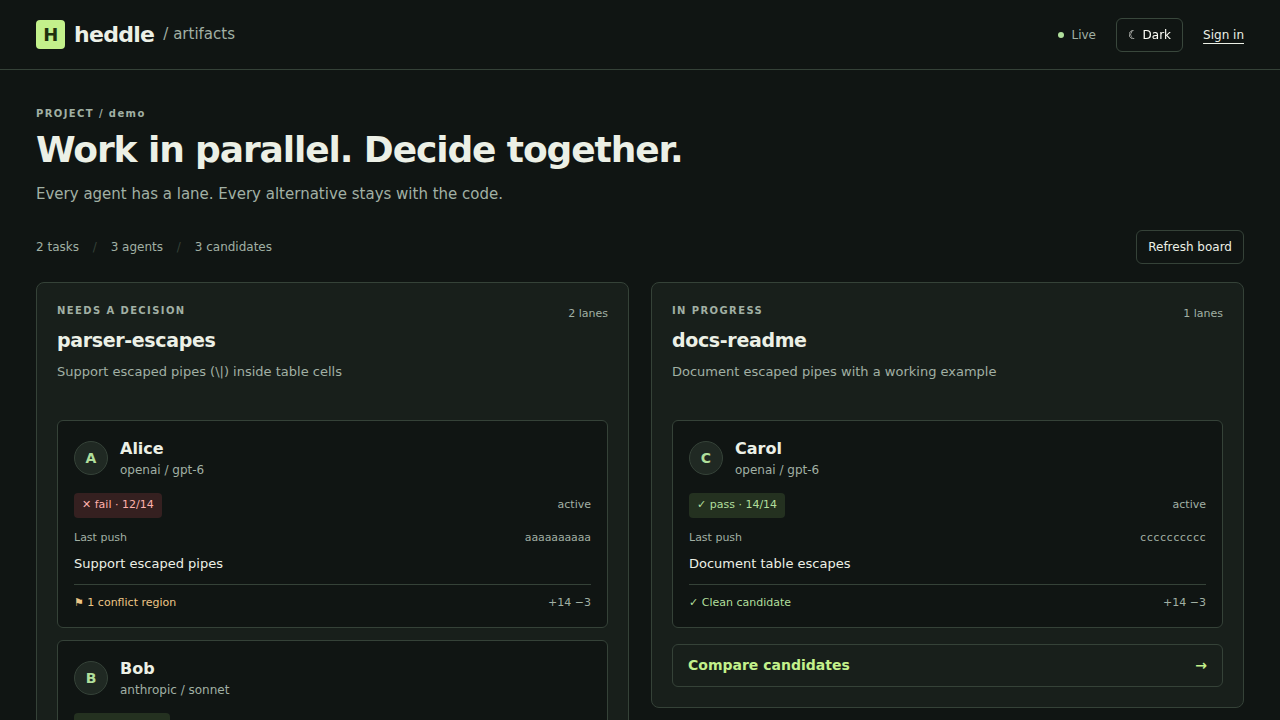
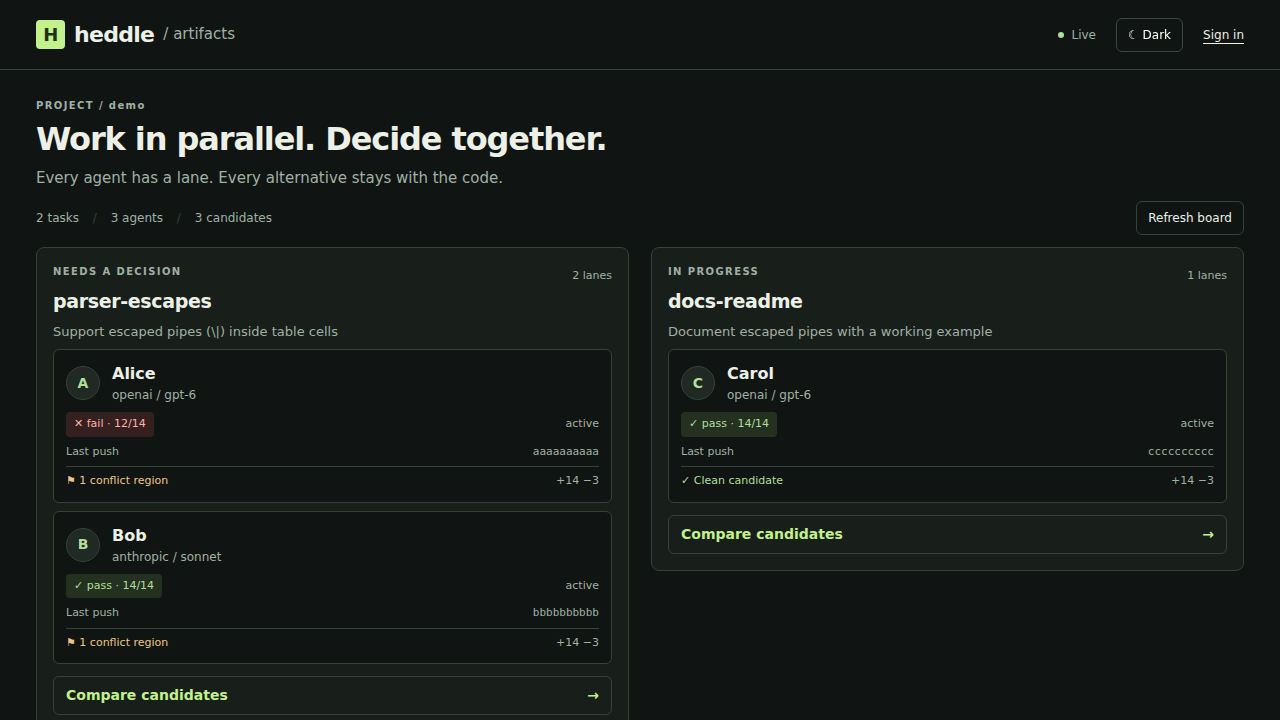
ui: preserve early live events across snapshot loading
Rebuild before browser checks, verify delayed snapshots and archive final acceptance evidence.

diff --git a/ui/src/app.tsx b/ui/src/app.tsx
@@ -52,11 +52,16 @@ function PageTitle({ eyebrow, title, children }: { eyebrow: string; title: strin
 }
 function Board({ p }: { p: string }) {
   const [view, setView] = useState<ProjectView>(), [error, setError] = useState(''), [pulse, setPulse] = useState<Record<string, number>>({});
-  const version = useRef(0);
-  const load = async () => { const n = ++version.current; try { const data = await request<ProjectView>(projectPath(p)); if (n === version.current) { setView(data); setError(''); } } catch(e) { if (n === version.current) setError(message(e)); } };
+  const version = useRef(0), loading = useRef(false), pending = useRef<FeedEvent[]>([]);
+  const load = async () => {
+    const n = ++version.current; loading.current = true; pending.current = [];
+    try { const data = await request<ProjectView>(projectPath(p)); if (n === version.current) { setView(pending.current.reduce(updateBoard, data)); setError(''); } }
+    catch(e) { if (n === version.current) setError(message(e)); }
+    finally { if (n === version.current) { loading.current = false; pending.current = []; } }
+  };
   useEffect(() => { void load(); return () => { version.current++; }; }, [p]);
   const live = useFeed(p, event => {
-    version.current++; // A snapshot begun before this event must not overwrite it.
+    if (loading.current) pending.current.push(event); // Replay events that arrived after the snapshot request began.
     setView(v => v && updateBoard(v, event));
     if (event.type === 'push.received') setPulse(v => ({ ...v, [`${event.task}/${event.agent}`]: Date.now() }));
     if (event.type === 'engine.error') setError(`Engine operation failed (${event.code}). Refresh to check progress.`);
@@ -111,15 +116,16 @@ function Discussion({ p, t, turns, humans, onTurn }: { p: string; t: string; tur
 function Compare({ p, t }: { p: string; t: string }) {
   const [view, setView] = useState<TaskView>(), [agents, setAgents] = useState<Agent[]>([]), [error, setError] = useState('');
   const [pick, setPick] = useState(''), [rationale, setRationale] = useState(''), [decider, setDecider] = useState(''), [busy, setBusy] = useState(false), [changed, setChanged] = useState(false), [reviewing, setReviewing] = useState(false);
-  const version = useRef(0), hydrated = useRef(false);
-  const load = async (reviewAgain = false) => { const n = ++version.current; setReviewing(true);
+  const version = useRef(0), hydrated = useRef(false), loading = useRef(false), pending = useRef<FeedEvent[]>([]);
+  const load = async (reviewAgain = false) => { const n = ++version.current; setReviewing(true); loading.current = true; pending.current = [];
     try { const [task, project] = await Promise.all([request<TaskView>(taskPath(p, t)), request<ProjectView>(projectPath(p))]);
-      if (n === version.current) { setView(task); setAgents(project.agents); setError(''); if (reviewAgain) { setChanged(false); setPick(''); } hydrated.current = true; }
-    } catch(e) { if (n === version.current) setError(message(e)); } finally { if (n === version.current) setReviewing(false); }
+      if (n === version.current) { setView(pending.current.reduce(updateTask, task)); setAgents(project.agents); setError(''); if (reviewAgain) { setChanged(pending.current.some(e => e.type === 'candidate.ready' && e.candidate.task === t)); setPick(''); } hydrated.current = true; }
+    } catch(e) { if (n === version.current) setError(message(e)); } finally { if (n === version.current) { setReviewing(false); loading.current = false; pending.current = []; } }
   };
   useEffect(() => { void load(); return () => { version.current++; }; }, [p, t]);
   const live = useFeed(p, event => {
-    if (event.type === 'candidate.ready' && event.candidate.task === t) { version.current++; setReviewing(false); setChanged(true); }
+    if (loading.current) pending.current.push(event);
+    if (event.type === 'candidate.ready' && event.candidate.task === t) setChanged(true);
     setView(v => v && updateTask(v, event));
     if (event.type === 'engine.error') setError(`Engine operation failed (${event.code}). Review current candidates before retrying.`);
   }, reconnected => { if (reconnected && hydrated.current) setChanged(true); else void load(); });

diff --git a/ui/test/acceptance.spec.ts b/ui/test/acceptance.spec.ts
@@ -110,3 +110,39 @@ test('C-T4 wrangler smoke: board, compare, keyboard decision, why, login, screen
   const horizontalOverflow = await page.evaluate(() => document.documentElement.scrollWidth > innerWidth);
   expect(horizontalOverflow).toBe(false);
 });
+
+test('C-T2 early feed survives delayed initial board snapshot', async ({ page, request }) => {
+  await reset(request, 'pushing');
+  let release!: () => void;
+  const held = new Promise<void>(resolve => { release = resolve; });
+  let snapshots = 0;
+  await page.route('**/api/projects/demo', async route => {
+    const response = await route.fetch(); snapshots++;
+    await held; await route.fulfill({ response });
+  });
+  await page.goto('/p/demo');
+  await expect(page.locator('.live')).toHaveText('Live');
+  await expect.poll(() => snapshots).toBeGreaterThan(0);
+  await request.post('/__mock/replay');
+  release();
+  await expect(page.getByTestId('lane-alice')).toContainText('fail · 12/14');
+  await expect(page.getByRole('link', { name: /Why ffffffffff landed/ })).toBeVisible();
+});
+
+test('C-T2 initial compare snapshot retains early discussion and landing', async ({ page, request }) => {
+  await reset(request, 'pushing');
+  let release!: () => void;
+  const held = new Promise<void>(resolve => { release = resolve; });
+  let snapshots = 0;
+  await page.route('**/api/projects/demo/tasks/parser-escapes', async route => {
+    const response = await route.fetch(); snapshots++;
+    await held; await route.fulfill({ response });
+  });
+  await page.goto('/p/demo/t/parser-escapes');
+  await expect(page.locator('.live')).toHaveText('Live');
+  await expect.poll(() => snapshots).toBeGreaterThan(0);
+  await request.post('/__mock/replay');
+  release();
+  await expect(page.getByText('✓ Landed bob on main')).toBeVisible();
+  await expect(page.locator('.discussion')).toContainText('Agree — API stability matters more than the shorter regex.');
+});

diff --git a/ui/playwright.config.ts b/ui/playwright.config.ts
@@ -5,7 +5,7 @@ export default defineConfig({
   timeout: 20000, expect: { timeout: 6000 }, reporter: 'list',
   use: { baseURL: process.env.UI_TEST_URL || 'http://127.0.0.1:8788', viewport: { width: 1280, height: 720 }, trace: process.env.UI_SCREENSHOT_DIR ? 'off' : 'retain-on-failure' },
   webServer: process.env.UI_TEST_URL ? undefined : {
-    command: 'npm run build && npm run dev:worker', url: 'http://127.0.0.1:8788/p/demo',
+    command: 'npm run dev:worker', url: 'http://127.0.0.1:8788/p/demo',
     reuseExistingServer: !process.env.CI, timeout: 60000,
     env: { XDG_CONFIG_HOME: '/tmp/heddle-c-config', WRANGLER_SEND_METRICS: 'false' }
   }

diff --git a/ui/evidence/README.md b/ui/evidence/README.md
@@ -1,0 +1,25 @@
+<!-- SPDX-License-Identifier: Apache-2.0 -->
+# Track C acceptance evidence
+
+[Final local Worker output](worker-green.txt): 9 passed. [Node mock output](node-green.txt): 9 passed.
+[Deliberate-regression summary](negative-summary.txt): 12 expected assertion failures, with 9 tests passing before and after restoration.
+All runs use Chromium and the local mocks; no deployed Cloudflare/Artifacts or real engine verification is claimed.
+
+| Item | Checks | Proof the check can fail |
+|---|---|---|
+| C-T1 | pushing board, conflict compare, decided Why | remove [board cards](negative-C-T1-board.txt), [conflict regions](negative-C-T1-conflict.txt), [narrative](negative-C-T1-why.txt) |
+| C-T2 | JSONL replay changes cards/tests/landing without reload; events survive delayed snapshots | remove [live reducer](negative-C-T2-replay.txt), [board buffer](negative-C-T2-board-buffer.txt), [compare buffer](negative-C-T2-compare-buffer.txt) |
+| C-T3 | exact request, 200/403/409, rationale required, signed human discussion | break [heads](negative-C-T3-heads.txt), [403](negative-C-T3-forbidden.txt), [409 guard](negative-C-T3-stale.txt), [rationale bound](negative-C-T3-rationale.txt), [discussion update](negative-C-T3-discussion.txt) |
+| C-T4 | local wrangler static routing, board→compare→keyboard decide→Why, login cookie, themes | remove [Why routing](negative-C-T4-routing.txt) |
+
+Screenshots use a 1280×720 viewport. Compare and Why are full-page captures; those pages scroll.
+
+| Screen | Dark | Light |
+|---|---|---|
+| Board | [dark](board-dark.png) | [light](board-light.png) |
+| Compare | [dark](compare-dark.png) | [light](compare-light.png) |
+| Why | [dark](why-dark.png) | [light](why-light.png) |
+
+Owner visual approval remains pending. The verification panel deliberately reports unavailable evidence because §7.2
+has no `verify` field. Track A must wire `ui/dist`, SPA paths, and the cookie login handler; switch the local domain types
+once its contracts PR lands on main. GitHub currently has no CI checks configured for this PR.

diff --git a/ui/README.md b/ui/README.md
@@ -62,3 +62,6 @@ captures for the compare and Why pages. Browser evidence covers the local mock, 
 Assets use a restrictive same-origin CSP and do not load remote scripts or fonts. Diff and narrative
 content are rendered as text. The directory-match badge compares public keys; it is not a cryptographic
 signature verification claim. Reconnection marks compare data stale; refresh explicitly before landing.
+
+Cloudflare routing references: [Workers SPA assets](https://developers.cloudflare.com/workers/static-assets/routing/single-page-application/)
+and [Wrangler local development](https://developers.cloudflare.com/workers/wrangler/commands/#dev).
